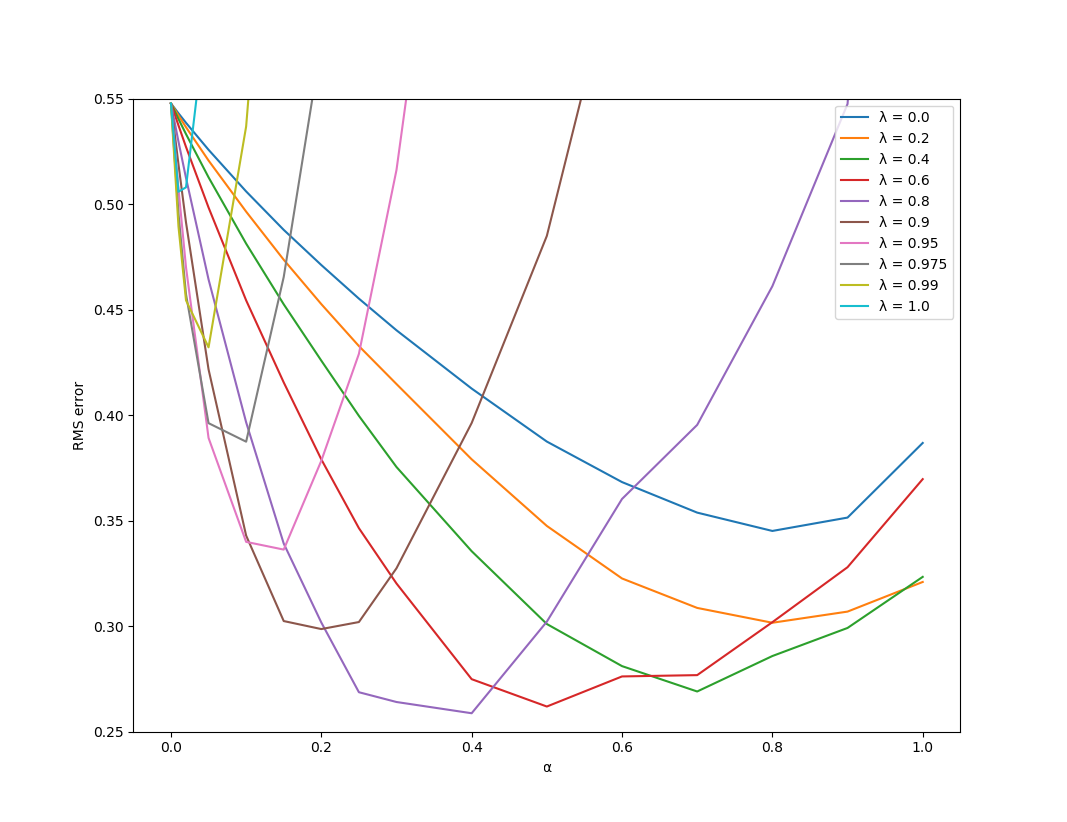
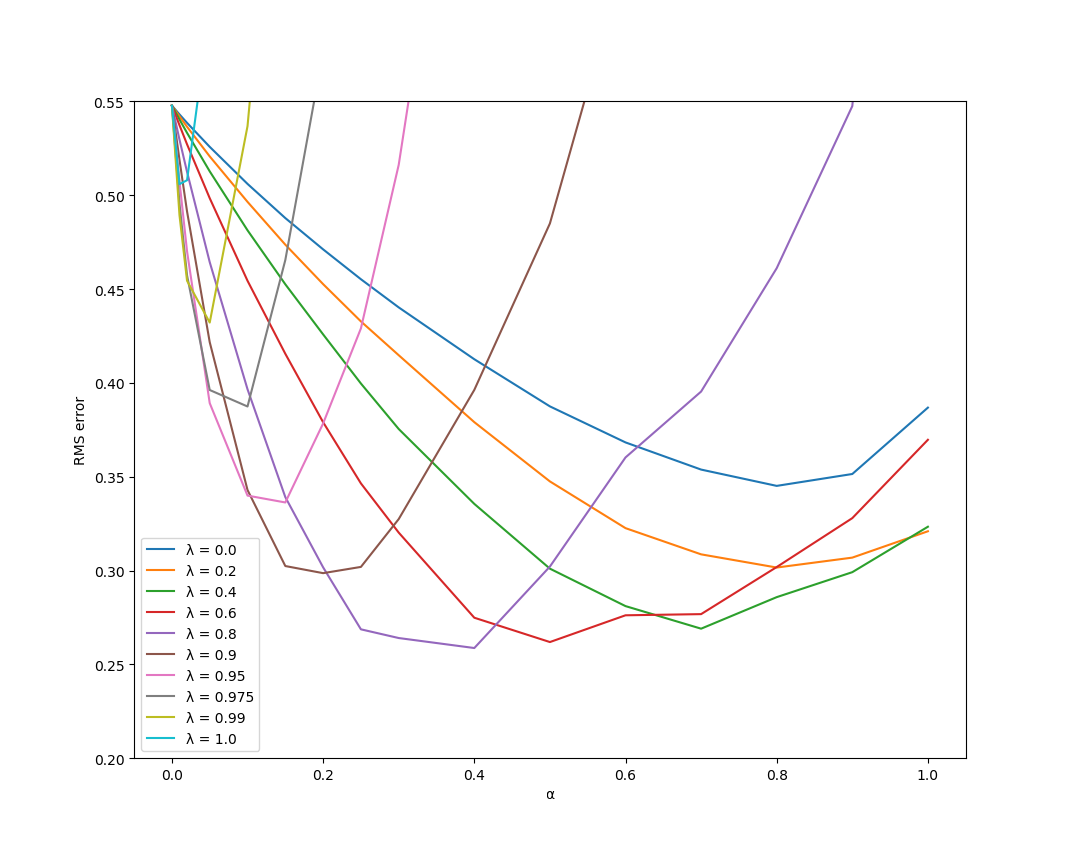
Added replacing traces

diff --git a/7_eligibility_traces/random_walk_with_td_lambda.py b/7_eligibility_traces/random_walk_with_td_lambda.py
@@ -24,17 +24,19 @@ class Environment(object):
 
 
 class Agent(object):
-    def __init__(self, alpha, gamma, l):
+    def __init__(self, alpha, gamma, l, replacing_traces):
         self.alpha = alpha
         self.gamma = gamma
         self.l = l
+        self.replacing_traces = replacing_traces
         self.V = defaultdict(float)
         self.e = defaultdict(float)
-        self.states = range(21)
+        self.visited_states = set()
 
 
     def start_episode(self):
         self.e.clear()
+        self.visited_states.clear()
 
 
     def select_action(self):
@@ -42,16 +44,20 @@ class Agent(object):
 
     
     def receive_reward(self, s, r, new_s):
+        self.visited_states.add(s)
         delta = r + self.gamma*self.V[new_s] - self.V[s]
-        self.e[s] += 1
-        for s in self.states:
+        if self.replacing_traces:
+            self.e[s] = 1
+        else:
+            self.e[s] += 1
+        for s in self.visited_states:
             self.V[s] += self.alpha*delta*self.e[s]
             self.e[s] *= self.gamma*self.l
  
 
-def random_walk(l, alpha):
+def random_walk(l, alpha, replacing_traces):
     env = Environment()
-    agent = Agent(alpha=alpha, gamma=1.0, l=l)
+    agent = Agent(alpha=alpha, gamma=1.0, l=l, replacing_traces=replacing_traces)
     episodes_num = 10
     true_V = 0.1*np.arange(21) - 1
     error = 0
@@ -73,7 +79,7 @@ def random_walk(l, alpha):
     return error
 
 
-def main():
+def random_walk_experiment(replacing_traces):
     np.random.seed(0)
     lambdas = [0.0, 0.2, 0.4, 0.6, 0.8, 0.9, 0.95, 0.975, 0.99, 1.0]
     alphas = [0.0, 0.01, 0.02, 0.05, 0.1, 0.15, 0.2, 0.25,
@@ -81,6 +87,7 @@ def main():
     runs_num = 100
     
     plt.figure()
+    print('replacing_traces =', replacing_traces)
     
     for l in lambdas:
         print('l =', l)
@@ -89,7 +96,7 @@ def main():
             print('alpha =', alpha)
             mean_error = 0
             for run in range(runs_num):
-                error = random_walk(l, alpha)
+                error = random_walk(l, alpha, replacing_traces)
                 mean_error += error
             mean_error /= runs_num
             errors.append(mean_error)
@@ -98,8 +105,13 @@ def main():
     
     plt.xlabel('α')
     plt.ylabel('RMS error')
-    plt.ylim(0.25, 0.55)
+    plt.ylim(0.2, 0.55)
     plt.legend()
+
+
+def main():
+    random_walk_experiment(False)
+    random_walk_experiment(True)
 
 
 if __name__ == "__main__":
